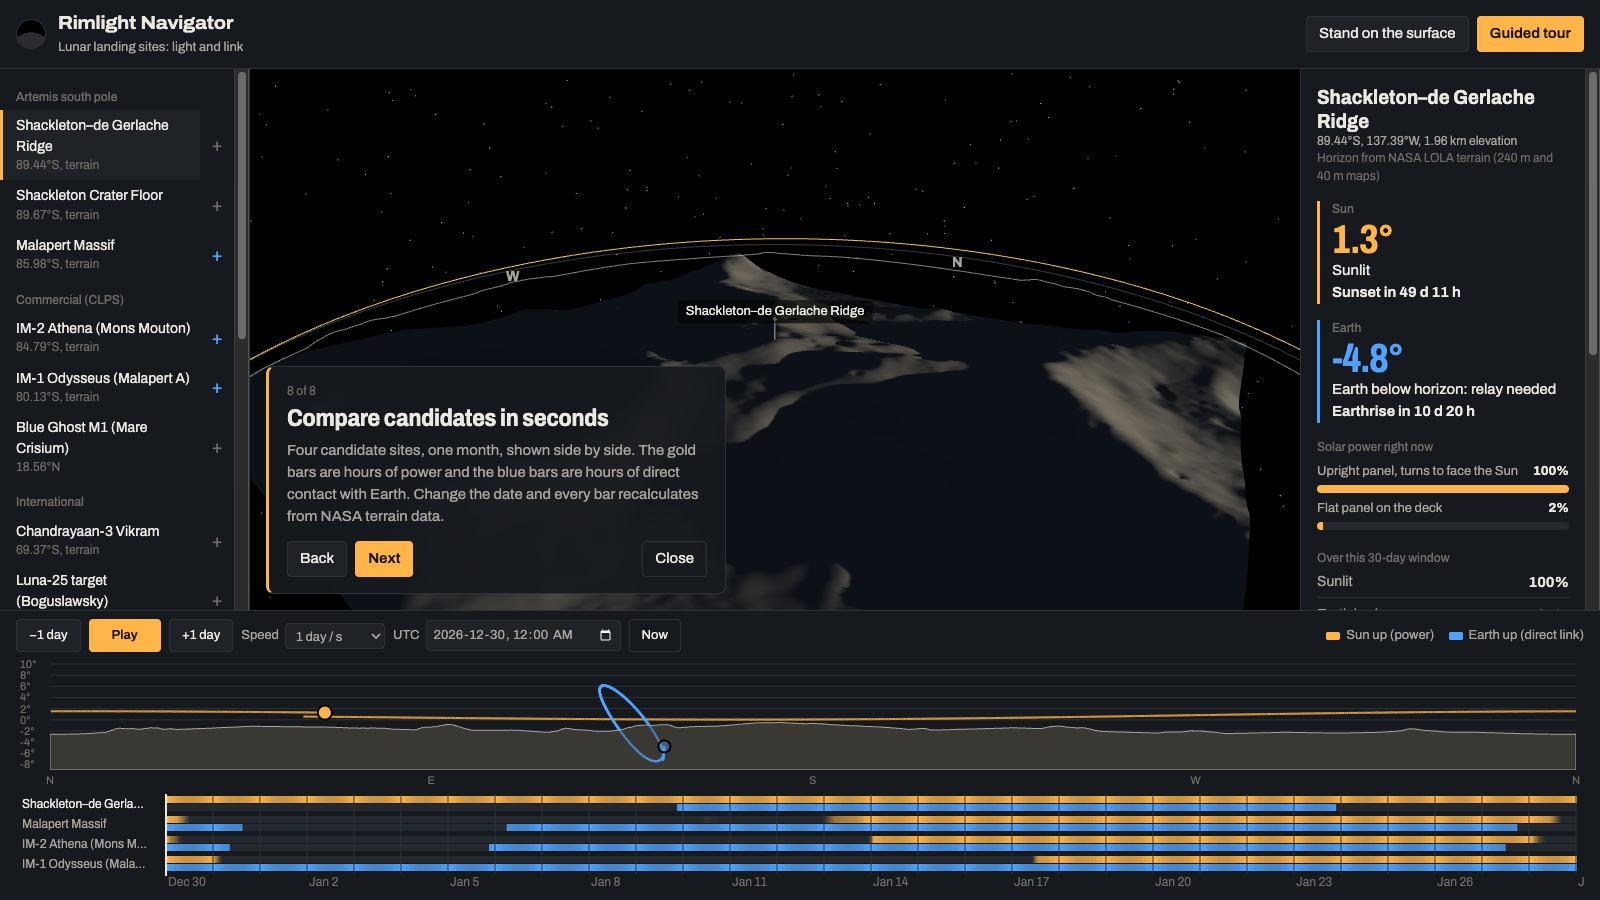
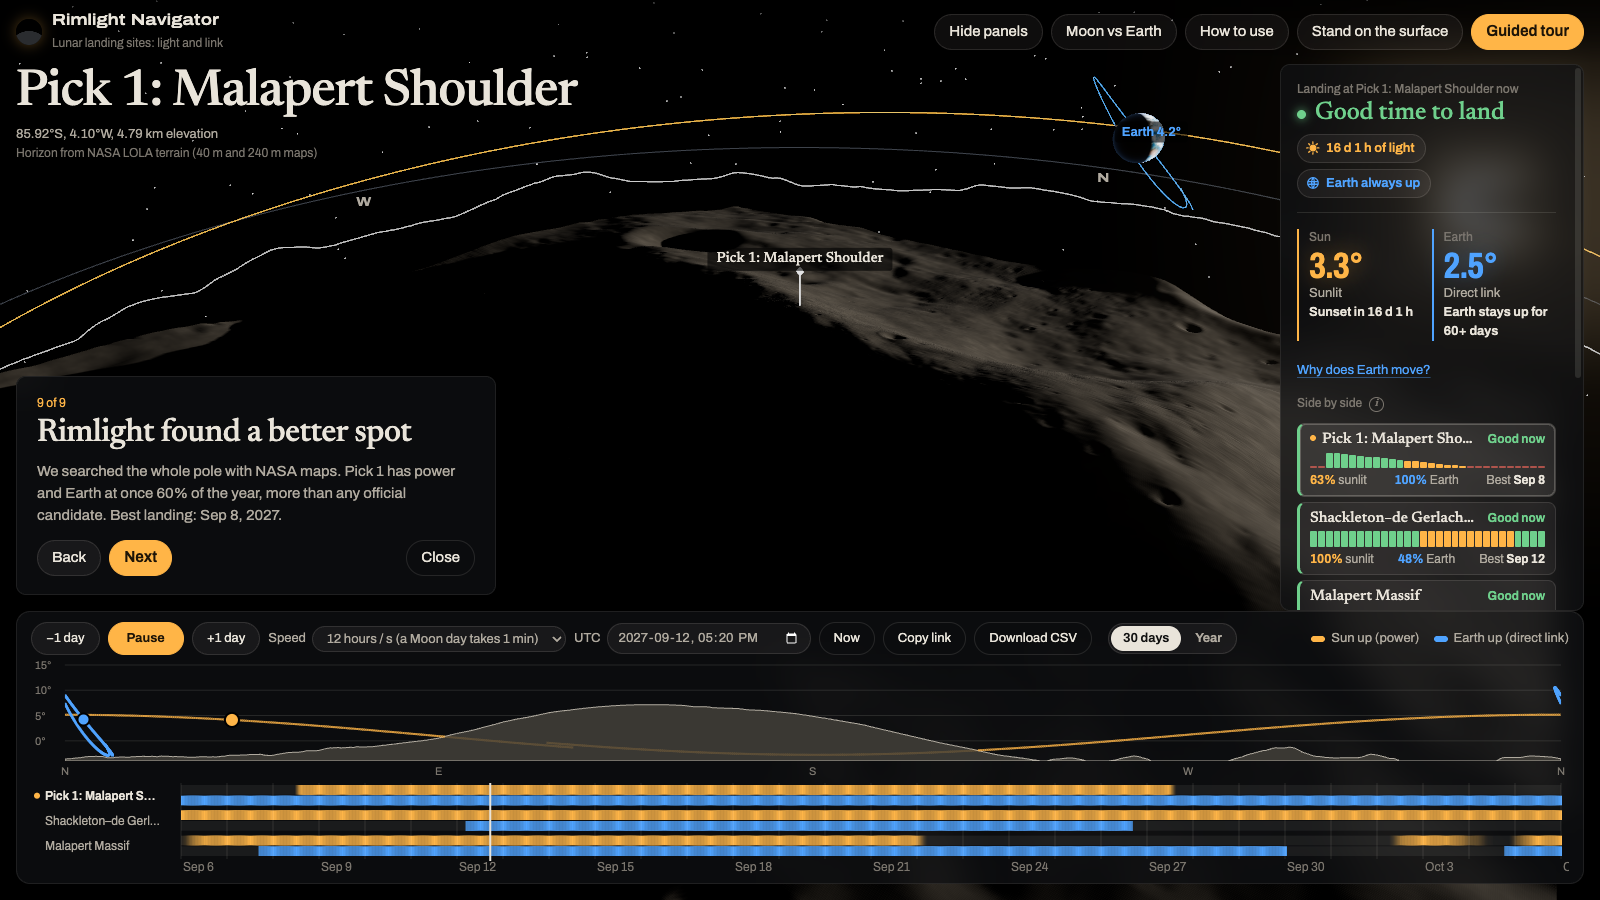
README: live link, screenshot, picks, testing; mark deployed
Helped by Claude

diff --git a/README.md b/README.md
@@ -1,79 +1,98 @@
 # Rimlight Navigator
 
+**Live: https://rimlight-navigator.vercel.app** · [Open the navigator](https://rimlight-navigator.vercel.app/app.html) · [Take the guided tour](https://rimlight-navigator.vercel.app/app.html?tour=1)
+
 **Team Rimlight**, NASA Space Apps Challenge 2026, challenge [*Lunar Landing Site Navigator*](https://www.spaceappschallenge.org/2026/challenges/lunar-landing-site-navigator/)
 
-Pick a spot on the Moon and a date. Rimlight Navigator shows where the Sun and Earth sit relative to the **real terrain horizon** at that spot. It tells you how long until sunset (power) and Earthset (direct-to-Earth comms). You can also line up several candidate sites over a month and compare them side by side.
+[![CI](https://github.com/MujtabaF/rimlight-navigator/actions/workflows/ci.yml/badge.svg)](https://github.com/MujtabaF/rimlight-navigator/actions/workflows/ci.yml)
 
-> At the lunar south pole the Sun never climbs more than about 1.5° above the horizon. A ridge a few hundred metres high can mean months of sunlight, and a crater 20 km away can mean none ever. Planning tools that do this math exist, but they are built for specialists. Rimlight puts the answer on one screen in seconds.
+Pick a spot on the Moon and a date. Rimlight Navigator shows whether a lander there would have **sunlight for power** and **a clear line to Earth**, computed against the **real terrain skyline** from NASA laser-altimeter data.
 
-![screenshot](docs/img/screenshot.png)
+> At the lunar south pole the Sun never climbs more than about 2° above the horizon. A ridge can be sunlit 89% of the year, while a crater floor 20 km away hasn't seen the Sun in billions of years. Move a few kilometres, or slip the launch a few days, and a site goes from great to impossible. The tools that work this out are built for specialists. Rimlight puts the answer on one screen in seconds.
+
+![Rimlight Navigator](docs/img/screenshot.png)
 
 ## What it does
 
 | | |
 |---|---|
-| **3D surface view** | A 60 × 60 km patch of real NASA LOLA terrain around the site, lit by the Sun at its true position, so shadows are physically placed. You can switch to standing on the surface and look around. |
-| **Sun & Earth on the sky** | Shows the true azimuth and elevation of both bodies, plus their paths over the next 30 days. Earth shows its correct phase. |
-| **360° skyline panorama** | The horizon the lander actually sees, unrolled flat. You can tell at a glance whether the Sun clears the terrain. |
-| **Light & link timeline** | 30 days of "Sun up" (gold) and "Earth up" (blue) bars for every site you're comparing. Click it to move through time. |
-| **Countdowns** | Time until the next sunset or sunrise and Earthset or Earthrise, to the minute. |
-| **Power estimate** | Output from an upright Sun-tracking panel versus a flat deck panel. This shows why polar landers mount their panels vertically. |
-| **Mission metrics** | % of time sunlit, % with Earth in view, % with both, longest night, and longest comms blackout. |
-| **14 curated sites** | Artemis south-pole candidates, CLPS landers (IM-1, IM-2, Blue Ghost), Apollo 11/15/17, Chandrayaan-3, SLIM, Chang'e 4/6, plus any custom coordinates. |
-| **Guided tour** | A 9-scene story mode that drives the demo videos. |
+| **20 sites, any coordinates** | Apollo 11/15/17, CLPS landers (IM-1, IM-2, Blue Ghost), India, Japan, China and Russia, NASA Artemis III candidate regions, the Chang'e-7 target, plus 3 **Rimlight picks**. Type any coordinates; near the south pole the real skyline is computed live in your browser. |
+| **Verdict** | Good, workable or poor to land right now, with countdowns to sunset and Earthset. |
+| **Best days to land** | Every day of the month rated by sunlight before the first sunset and Earth contact; click a day to jump there. |
+| **Compare** | Up to four sites side by side, or **two landing dates** for the same site ("the launch slipped, now what?"). |
+| **Seasons** | Sunlight and Earth contact for each month of the year. |
+| **3D and eye level** | Real NASA terrain (about 29 m detail at the landing spot), the Sun and Earth at their true positions, Earth with its correct phase. Stand on the surface and watch the Sun skim the skyline. |
+| **Skyline and timeline** | The 360° horizon unrolled flat, and 30 days of Sun-up and Earth-up periods. |
+| **Explainers** | A 9-scene guided tour, Moon vs Earth, and why Earth moves in the Moon's sky (libration). |
+| **Share** | The address bar always holds the exact view (Copy link), plus a CSV export of the numbers. |
+
+### Rimlight picks
+We searched the whole south pole with NASA's own sunlight, Earth-visibility, shadow and slope maps (`scripts/find_picks.py`), then re-checked each candidate with our engine. **Two picks have power and a direct link to Earth at the same time about 60% of the year, more than any official candidate in the app (49%).** Clicking a pick jumps to its best landing date.
 
 ## Accuracy
 
-* **Ephemeris:** Sun and Earth directions come from [Astronomy Engine](https://github.com/cosinekitty/astronomy) and are rotated into the Moon's body-fixed frame with the IAU rotation model. They are **checked against NASA JPL Horizons** for observers on the lunar surface: the worst error is **0.004°** across 3 sites × 2 bodies × 1 month (`npm run validate`).
-* **Terrain horizons:** these come from **NASA LRO LOLA** polar elevation maps (`LDEM_85S_40M`, `LDEM_60S_240M`). The builder marches a ray outward to 300 km in 720 directions and accounts for lunar curvature. The Moon has no atmosphere, so there is no refraction term.
-* **Sanity check against published results:** our numbers for 2027 put the Shackleton–de Gerlache ridge at **88.8% sunlit**, matching the ~86–89% reported in the literature. The Shackleton crater floor gets **0%**, consistent with it being a permanently shadowed region. The far-side Chang'e sites have **0% Earth visibility**, as expected.
+* **Sun and Earth positions** agree with **NASA JPL Horizons to within 0.004°** (`npm run validate`). They come from [Astronomy Engine](https://github.com/cosinekitty/astronomy), rotated into the Moon's body-fixed frame (IAU model), including libration and topocentric parallax.
+* **Terrain skylines** come from **NASA LRO LOLA** elevation maps (40 m and 240 m at the pole, 1.9 km globally): 720 directions, out to 300 km, with lunar curvature. No atmosphere, so no refraction.
+* **Matches published results:** the Shackleton–de Gerlache ridge comes out **88.8% sunlit** in 2027 (literature: about 86–89%), the Shackleton crater floor **0%**, and the far side **0% Earth**.
 
-The method is explained in [docs/SCIENCE.md](docs/SCIENCE.md).
+## Testing
 
-## Run it
+* **160 unit tests** (Vitest), including **66 saved NASA JPL Horizons answers**. **100% line coverage of the physics core** (`src/core/`).
+* **15 science checks** against physics and published studies.
+* **GitHub Actions** runs everything, plus a production build, on every push.
+
+```bash
+npm test           # unit tests + science checks + build
+npm run coverage   # coverage report in coverage/index.html
+```
+
+## Run it locally
 
 ```bash
 npm install
-npm run dev          # http://localhost:5173
-npm run build        # static site in dist/ (works offline / any static host)
-npm run validate     # compare against JPL Horizons (needs internet)
+npm run dev        # http://localhost:5173 (landing page) and /app.html (navigator)
+npm run build      # static site in dist/ (works offline and on any static host)
+npm run validate   # compare against NASA JPL Horizons (needs internet)
 ```
 
-Rebuilding the terrain data is optional, because the processed files are already in `public/data/sites/`:
+Processed data is already in `public/data/`. To rebuild it from NASA's raw files (optional, about 270 MB):
 
 ```bash
-python3 -m venv .venv && .venv/bin/pip install numpy pillow
-bash scripts/fetch_dems.sh                 # ~235 MB of NASA LOLA data
-.venv/bin/python scripts/build_horizons.py
-node scripts/sanity-check.mjs              # one-year stats for every site
+python3 -m venv .venv && .venv/bin/pip install numpy pillow scipy
+bash scripts/fetch_dems.sh
+.venv/bin/python scripts/build_horizons.py         # site skylines + 3D terrain
+.venv/bin/python scripts/build_terrain_grids.py    # grids for custom coordinates
 ```
 
-### Keyboard (for presenting)
-`Space` play/pause · `←/→` ±1 hour · `Shift+←/→` ±1 day · `N`/`P` or PageDown/PageUp next/previous tour scene · `F` focus mode (hides side panels) · `Esc` close tour.
-Deep links: `?tour=3`, `?site=malapert&t=2027-01-05T12:00&eye=1`.
+**Keyboard:** `Space` play/pause · `←/→` ±1 hour · `Shift+←/→` ±1 day · `N`/`P` tour scenes · `F` hide panels · `?` help.
 
-## Data & resources
+## How it works
 
-* NASA LRO **LOLA** gridded elevation data, PDS Geosciences Node (mirror: imbrium.mit.edu)
-* NASA/JPL **Horizons** System, used as the validation reference
-* NASA **Moon Trek** and ASU **LROC QuickMap**, used for reference while picking sites
-* Astronomy Engine (MIT), Three.js (MIT), Archivo typeface (OFL)
-
-## Project layout
+The full technical write-up, with every number explained, is in **[docs/TECHNICAL_OVERVIEW.md](docs/TECHNICAL_OVERVIEW.md)**. The method is in [docs/SCIENCE.md](docs/SCIENCE.md).
 
 ```
-src/core/       physics: ephemeris.js, horizon.js, analysis.js (no UI code)
-src/            UI: main.js, scene.js (3D), panorama.js, timeline.js, story.js
-src/data/       sites.json (curated sites, single source of truth)
-public/data/    precomputed LOLA horizons + terrain patches
-scripts/        DEM tools (Python), JPL validation + sanity checks (Node)
-docs/           brief, plan, progress log, science notes, demo script, decisions
+src/core/       physics, no UI: ephemeris, horizon, analysis, landing planner, seasons, live terrain
+src/            UI: main.js, scene.js (3D), panorama, timeline, charts, tour, landing page
+src/data/       sites.json (the site catalogue)
+public/data/    processed NASA LOLA skylines, terrain patches and grids
+scripts/        Python data builders, JPL validation, science checks, pick finder
+tests/          Vitest unit tests (+ saved JPL answers)
+docs/           technical overview, science, decisions, testing, demo script
 ```
+
+**Stack:** vanilla JavaScript, Three.js (WebGL), Astronomy Engine, Vite; Python (numpy, scipy) for offline data processing. Static site with no backend, hosted on Vercel.
+
+## Data
+
+* NASA LRO **LOLA** elevation maps and illumination products, PDS Geosciences Node (mirror: imbrium.mit.edu)
+* NASA/JPL **Horizons**, the validation reference
+* NASA Scientific Visualization Studio **Blue Marble** (Earth), NASA LRO **Diviner** (temperatures)
+* NASA **Moon Trek** and ASU **LROC QuickMap**, for reference
 
 ## Team
 
-**Rimlight** is a solo team. The name comes from the crater rims at the lunar south pole that catch sunlight while everything around them is dark, which is exactly what this tool helps you find.
+**Rimlight** is a solo team. At the lunar south pole almost everything sits in shadow; only the raised crater rims catch the light. Finding that rim light is what this tool does.
 
-AI assistance disclosure: development was assisted by an AI coding assistant (Claude). All data comes from NASA sources and is validated as described above.
+**AI disclosure:** development was assisted by an AI coding assistant (Claude). All data comes from NASA, and all results are computed and tested as described above. Not an official NASA product.
 
 License: MIT

diff --git a/AGENTS.md b/AGENTS.md
@@ -16,7 +16,7 @@ The deadline is about **Sun 2026-11-15, 15:30 local time** (the project started 
 
 ## Current status (update this block every session)
 
-* **Phase:** v0 working end-to-end; pushed to GitHub (private), not deployed. Working copy: iCloud Mujtaba/Rimlight Navigator. Owner requires ALL "Challenge coverage" items in PLAN.md before submission.
+* **Phase:** feature-complete and **live at https://rimlight-navigator.vercel.app** (Vercel, auto-deploys on every push to main). Remaining: make the repo public, film mode, record videos, project page, submit. Working copy: iCloud Mujtaba/Rimlight Navigator. Owner requires ALL "Challenge coverage" items in PLAN.md before submission.
 * **Works:** ephemeris (JPL-validated, 0.004°), LOLA horizons for 7 polar sites, 3D terrain view, eye-level view, panorama, 30-day timeline, comparison, countdowns, power, 8-scene guided tour, custom coordinates, deep links, "How to use" help panel (`?`), plain-English landing verdict.
 * **Next up:** the first unchecked box in **`docs/TODO.md`**, the single to-do list.
 

diff --git a/docs/TODO.md b/docs/TODO.md
@@ -10,7 +10,7 @@ All done. See the Done list below.
 All done. See the Done list below.
 
 ## 3. Ship
-- [ ] Deploy to a public link, add a screenshot to the README
+- [x] Deploy to a public link (https://rimlight-navigator.vercel.app), add a screenshot to the README
 - [ ] Make the GitHub repo public
 - [ ] **Film mode:** timed automatic tour with captions and no buttons, for clean screen recording
 - [ ] Record the **30-second demo** (owner voice-over, English subtitles if needed)
